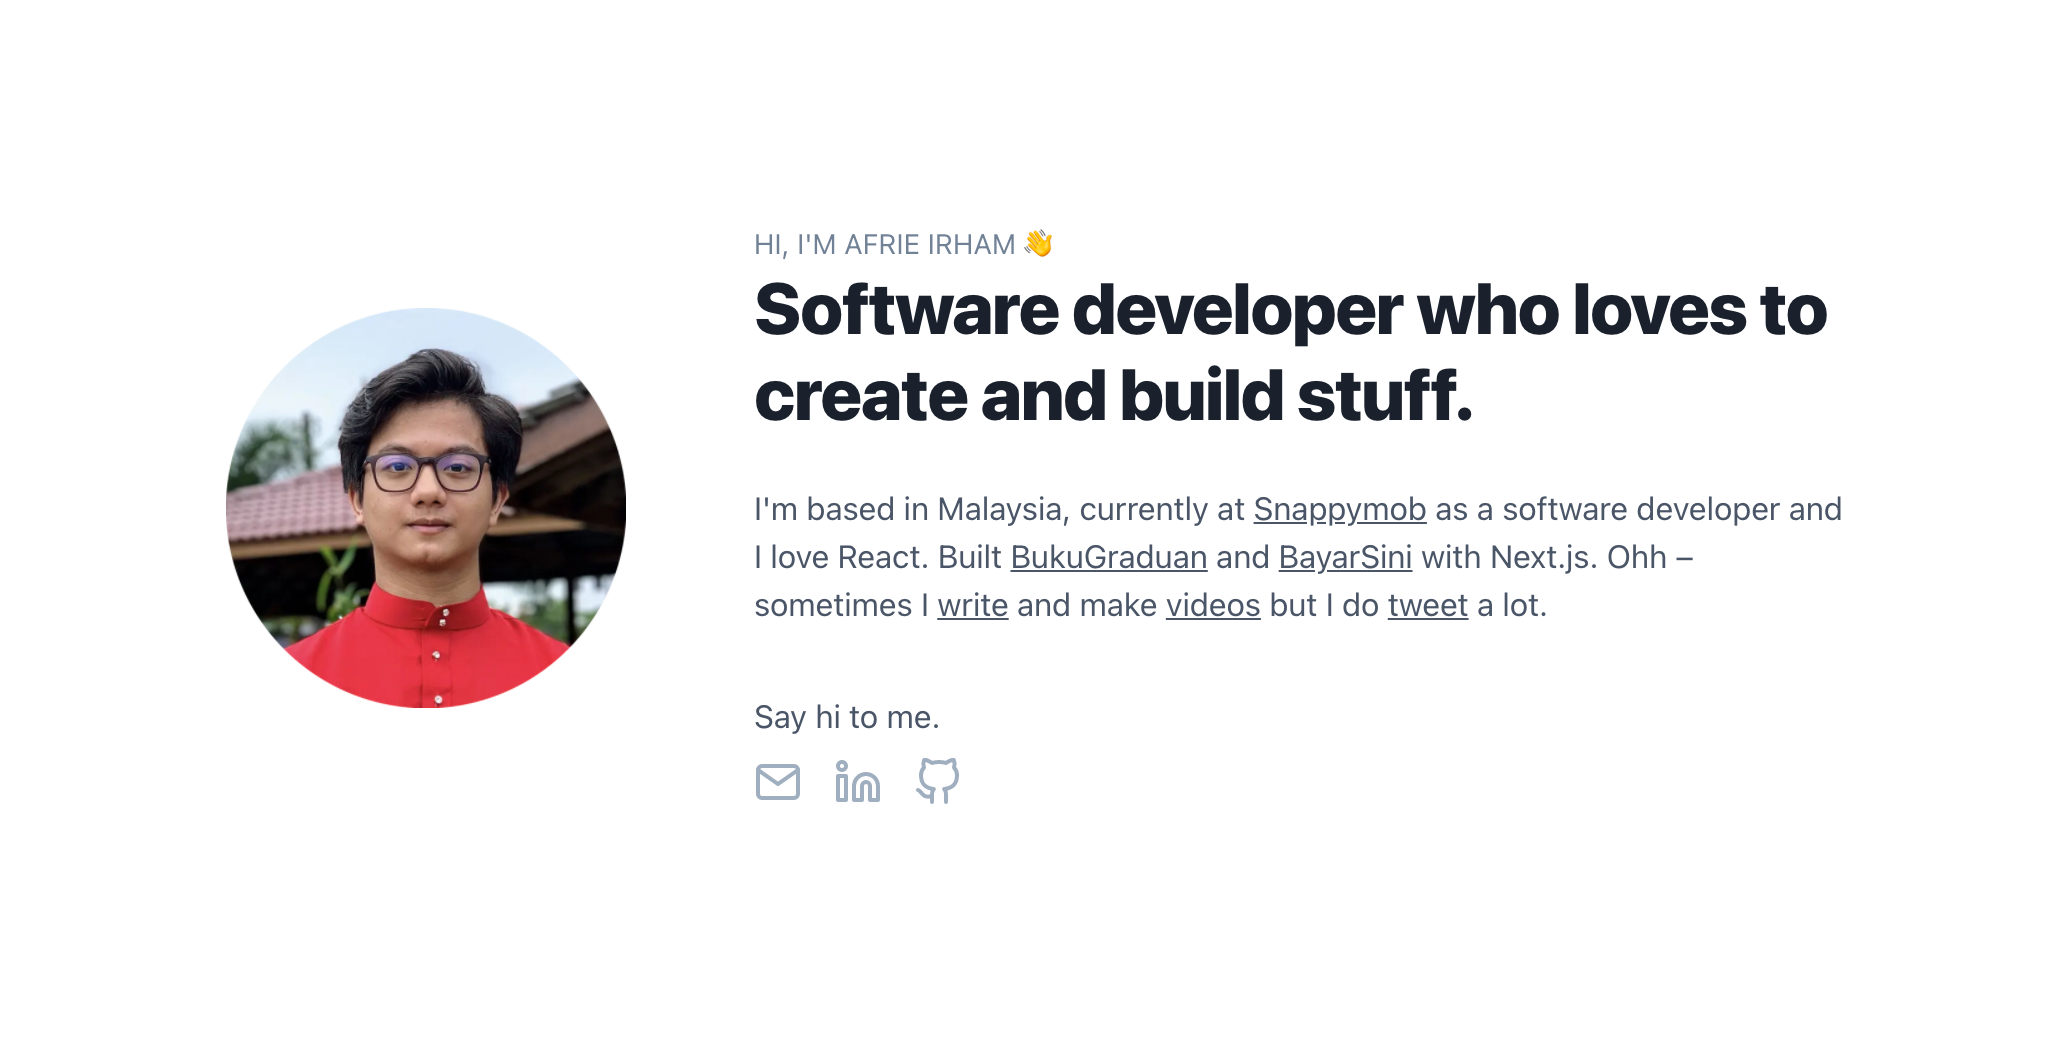
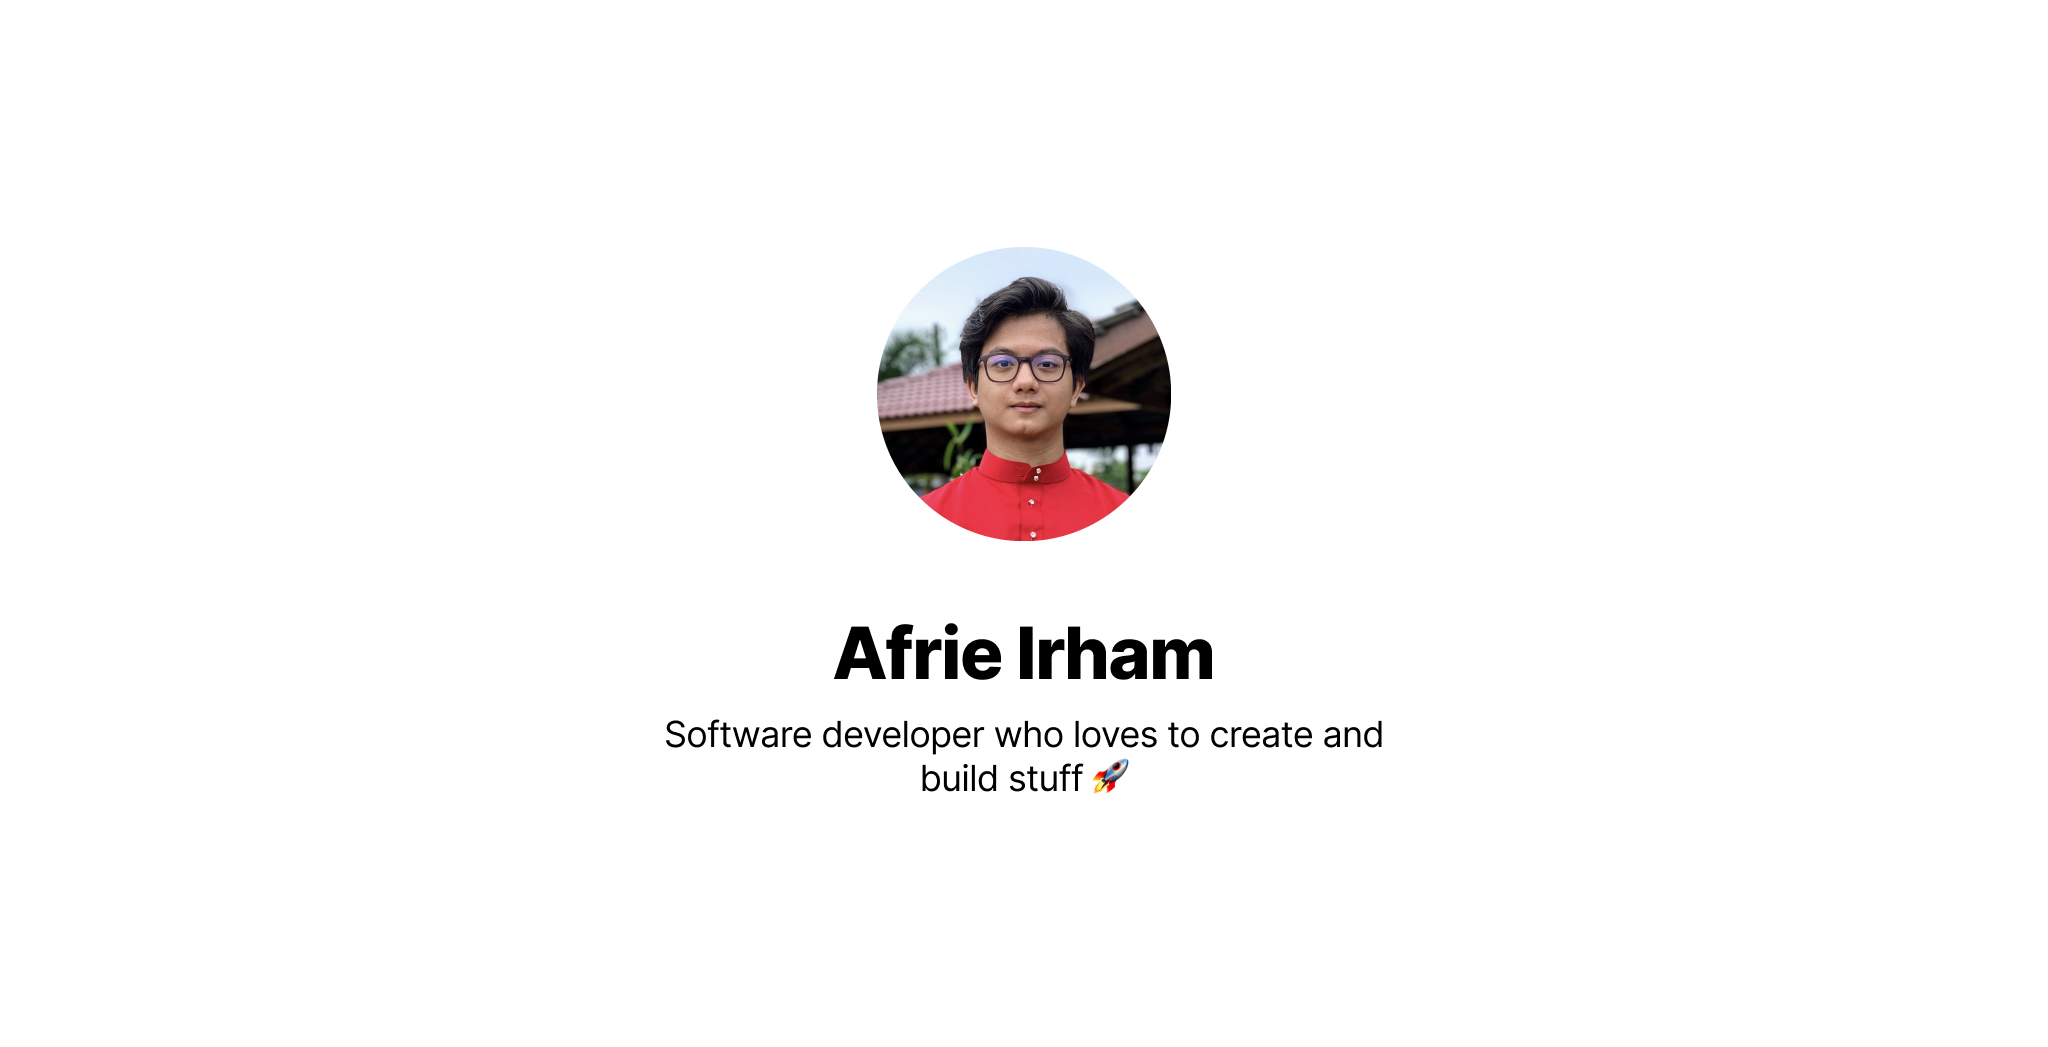
Update OG image and fix portrait size

Changed region(s): [[0.3125, 0.2139, 0.9062, 0.7641], [0.0938, 0.2751, 0.3125, 0.703]]

diff --git a/pages/index.js b/pages/index.js
@@ -34,7 +34,7 @@ function LinkText({ children, href }) {
 
 export default function Home({ articles }) {
   const heading = useBreakpointValue({ base: 'lg' })
-  const size = useBreakpointValue({ base: 125, md: 200 }) || 125
+  const size = useBreakpointValue({ base: '125px', md: '200px' })
 
   const meta = {
     title: 'Afrie Irham',
@@ -89,7 +89,7 @@ export default function Home({ articles }) {
           mb={{ base: 2, md: 0 }}
           pt='{{ base: 0, md: 0 }}'
         >
-          <Img src='/portrait.png' height={size} width={size} />
+          <Img src='/portrait.png' htmlHeight={size} htmlWidth={size} />
         </Box>
         <Flex maxWidth='550px' direction='column' alignItems={{ base: 'center', md: 'flex-start' }}>
           <Heading
@@ -117,20 +117,20 @@ export default function Home({ articles }) {
           </Stack>
         </Flex>
       </Flex>
-      <Articles articles={articles} />
+      <Articles articles={[]} />
       <Projects />
     </>
   )
 }
 
-export async function getStaticProps() {
-  const { data } = await fetchArticles()
+// export async function getStaticProps() {
+//   const { data } = await fetchArticles()
 
-  return {
-    props: { articles: data.user.publication.posts },
-    // Next.js will attempt to re-generate the page:
-    // - When a request comes in
-    // - Every minute
-    revalidate: 60,
-  }
-}
+//   return {
+//     props: { articles: data.user.publication.posts },
+//     // Next.js will attempt to re-generate the page:
+//     // - When a request comes in
+//     // - Every minute
+//     revalidate: 60,
+//   }
+// }
